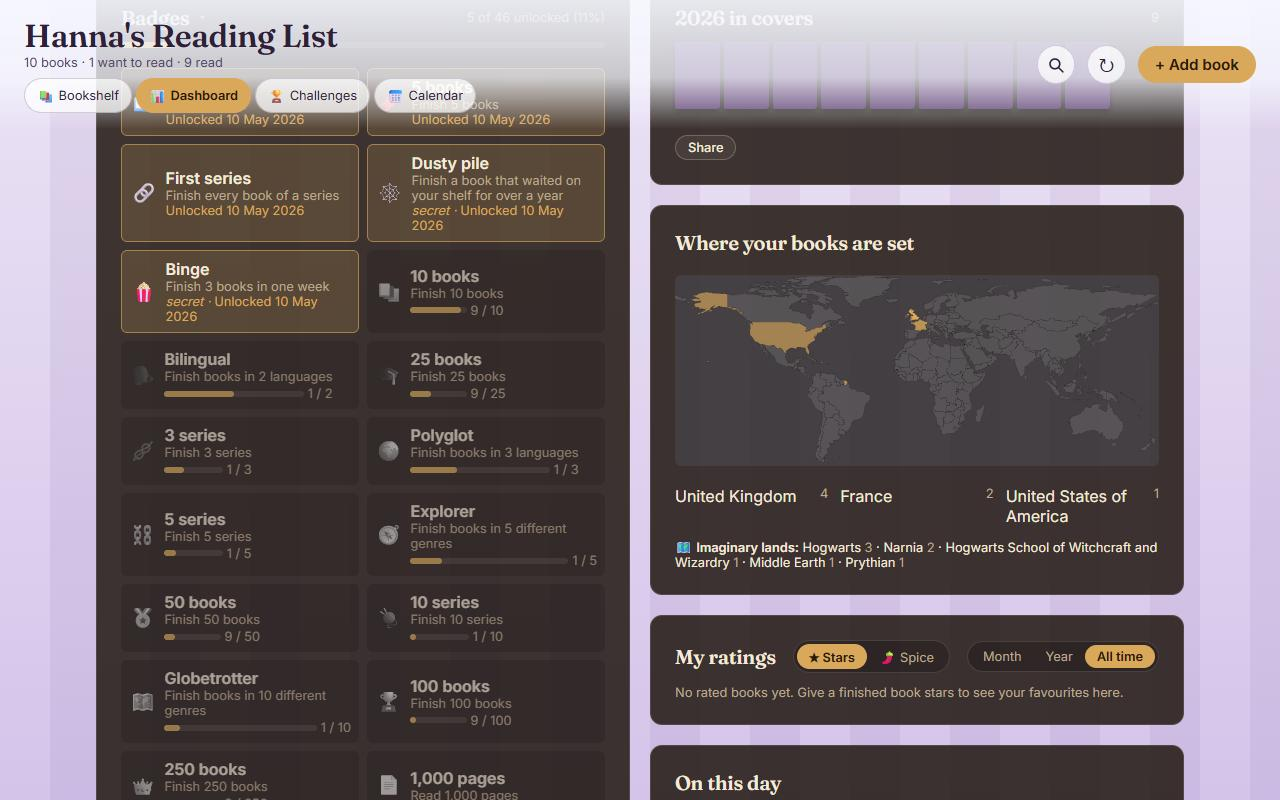
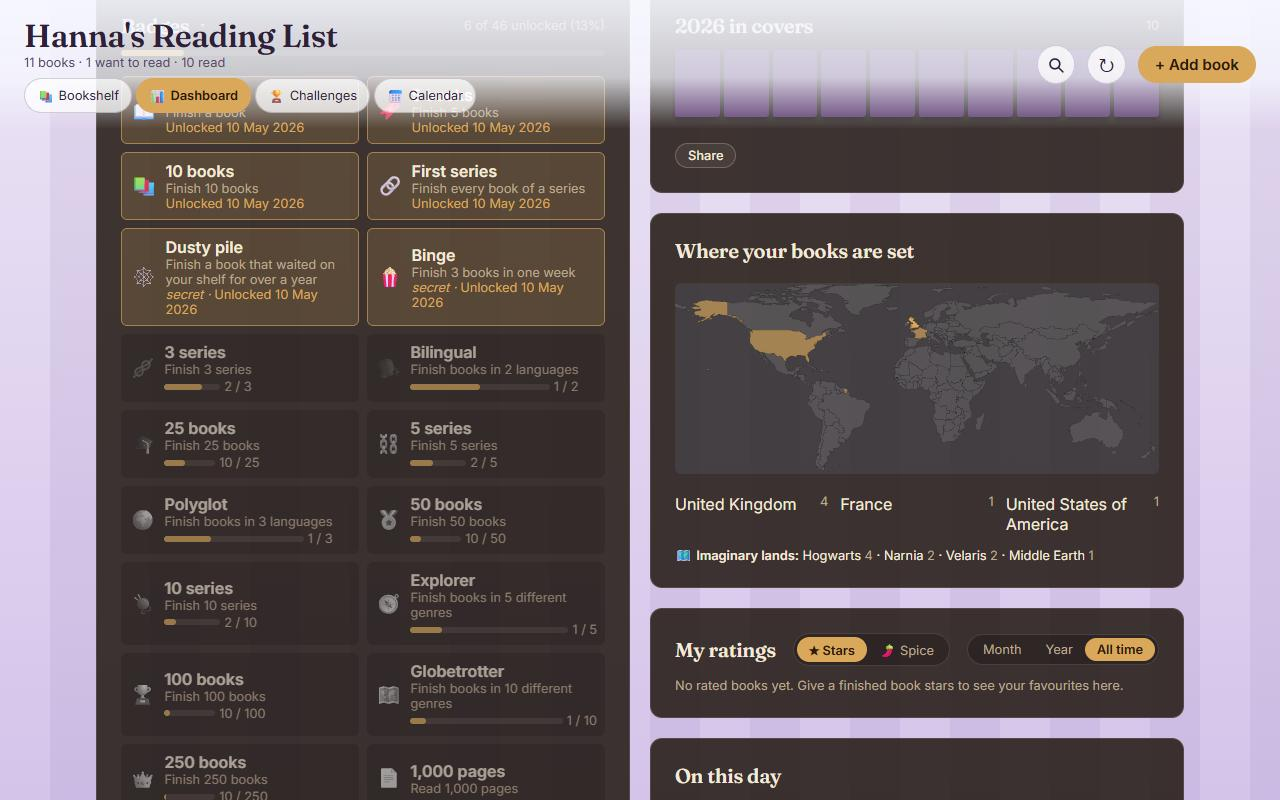
T-0015: spell typed countries properly, count one imaginary land once
UX review fixes: "usa" is stored as "USA" and "new york" as "New York";
"Hogwarts School of Witchcraft and Wizardry" counts as Hogwarts, Middle-earth
as Middle Earth, and the same land in other capitals counts once.

diff --git a/src/lib/places.ts b/src/lib/places.ts
@@ -118,36 +118,44 @@ const ALIASES: Record<string, string> = {
   transylvania: 'Romania',
 }
 
-/** Made-up places that Open Library doesn't always mark as imaginary. */
-const IMAGINARY = new Set([
-  'middle earth',
-  'middle-earth',
-  'narnia',
-  'westeros',
-  'essos',
-  'panem',
-  'prythian',
-  'hogwarts',
-  'oz',
-  'neverland',
-  'wonderland',
-  'discworld',
-  'earthsea',
-  'fillory',
-  'erilea',
-  'ravka',
-  'roshar',
-  'scadrial',
-  'atlantis',
-  'camelot',
+/**
+ * Made-up places that Open Library doesn't always mark as imaginary, with the
+ * short name the map counts them under (T-0015): "Hogwarts School of Witchcraft
+ * and Wizardry" is Hogwarts, "Middle-earth" is Middle Earth.
+ */
+const IMAGINARY = new Map([
+  ['middle earth', 'Middle Earth'],
+  ['middle-earth', 'Middle Earth'],
+  ['narnia', 'Narnia'],
+  ['westeros', 'Westeros'],
+  ['essos', 'Essos'],
+  ['panem', 'Panem'],
+  ['prythian', 'Prythian'],
+  ['hogwarts', 'Hogwarts'],
+  ['oz', 'Oz'],
+  ['neverland', 'Neverland'],
+  ['wonderland', 'Wonderland'],
+  ['discworld', 'Discworld'],
+  ['earthsea', 'Earthsea'],
+  ['fillory', 'Fillory'],
+  ['erilea', 'Erilea'],
+  ['ravka', 'Ravka'],
+  ['roshar', 'Roshar'],
+  ['scadrial', 'Scadrial'],
+  ['atlantis', 'Atlantis'],
+  ['camelot', 'Camelot'],
 ])
 
-/** A well-known made-up place, also inside a longer name ("Hogwarts School of Witchcraft and Wizardry"). */
-const imaginaryName = (name: string) => {
+/** A well-known made-up place, also inside a longer name ("Hogwarts School of Witchcraft and Wizardry"): its short name. */
+const imaginaryName = (name: string): string | undefined => {
   const words = name.toLowerCase()
   // the names are only letters, spaces and hyphens: no regex characters to escape
-  return [...IMAGINARY].some((w) => new RegExp(`(^|[^a-z])${w}([^a-z]|$)`).test(words))
+  for (const [w, display] of IMAGINARY) if (new RegExp(`(^|[^a-z])${w}([^a-z]|$)`).test(words)) return display
+  return undefined
 }
+
+/** The same made-up land in other capitals or spacing ("Velaris", "velaris"): one key. */
+export const landKey = (land: string) => land.toLowerCase().replace(/[\s-]+/g, ' ').trim()
 
 const clean = (s: string) => s.replace(/\s+/g, ' ').trim()
 
@@ -159,7 +167,8 @@ export interface BookPlaces {
 /** The countries and the made-up places in a book's places list. `known`: the country names on the map. */
 export function placesOf(places: string[], known: ReadonlySet<string>): BookPlaces {
   const countries = new Set<string>()
-  const imaginary = new Set<string>()
+  // key -> the spelling counted: a built-in land's short name, else the first spelling
+  const imaginary = new Map<string, string>()
   const knownLower = new Map([...known].map((c) => [c.toLowerCase(), c]))
   const country = (raw: string) => {
     const s = clean(raw).toLowerCase()
@@ -168,8 +177,10 @@ export function placesOf(places: string[], known: ReadonlySet<string>): BookPlac
   for (const place of places) {
     const name = clean(place.replace(/\(.*?\)/g, '').split('--')[0])
     // "Hogwarts School … (Imaginary place)", "Narnia (Imaginary place)"
-    if (/imaginary|fictitious|fictional|mythical|legendary/i.test(place) || imaginaryName(name)) {
-      if (name) imaginary.add(name)
+    const builtIn = imaginaryName(name)
+    if (/imaginary|fictitious|fictional|mythical|legendary/i.test(place) || builtIn) {
+      const land = builtIn ?? name
+      if (land && !imaginary.has(landKey(land))) imaginary.set(landKey(land), land)
       continue
     }
     // the place itself, then what's in brackets ("Paris (France)"), then each part ("England -- London")
@@ -182,7 +193,7 @@ export function placesOf(places: string[], known: ReadonlySet<string>): BookPlac
       }
     }
   }
-  return { countries: [...countries], imaginary: [...imaginary] }
+  return { countries: [...countries], imaginary: [...imaginary.values()] }
 }
 
 export interface WorldMap {
@@ -201,6 +212,8 @@ const finished = (b: Book) => b.status === 'read' || timesRead(b) > 0
 export function worldMap(books: Book[], known: ReadonlySet<string>): WorldMap {
   const countries = new Map<string, number>()
   const imaginary = new Map<string, number>()
+  // the same land in other capitals on another book counts under the first spelling
+  const spelling = new Map<string, string>()
   let waiting = 0
   let placed = 0
   for (const b of books) {
@@ -212,7 +225,11 @@ export function worldMap(books: Book[], known: ReadonlySet<string>): WorldMap {
     const p = placesOf(b.places, known)
     if (p.countries.length || p.imaginary.length) placed++
     for (const c of p.countries) countries.set(c, (countries.get(c) ?? 0) + 1)
-    for (const i of p.imaginary) imaginary.set(i, (imaginary.get(i) ?? 0) + 1)
+    for (const i of p.imaginary) {
+      const land = spelling.get(landKey(i)) ?? i
+      spelling.set(landKey(i), land)
+      imaginary.set(land, (imaginary.get(land) ?? 0) + 1)
+    }
   }
   return { countries, imaginary, waiting, placed }
 }

diff --git a/src/lib/setIn.test.ts b/src/lib/setIn.test.ts
@@ -64,6 +64,28 @@ describe('Set in: what she typed', () => {
     expect(placeFromTyped('Paris', [])).toEqual({ place: 'Paris', kind: 'country' })
   })
 
+  it('spells a name the map knows as a country properly: every word capitalised, abbreviations in capitals', () => {
+    expect(placeFromTyped('usa', [])).toEqual({ place: 'USA', kind: 'country' })
+    expect(placeFromTyped('uk', [])).toEqual({ place: 'UK', kind: 'country' })
+    expect(placeFromTyped('new york', [])).toEqual({ place: 'New York', kind: 'country' })
+    expect(placeFromTyped('england', [])).toEqual({ place: 'England', kind: 'country' })
+    expect(placeFromTyped('USA', [])).toEqual({ place: 'USA', kind: 'country' })
+    expect(placeFromTyped('u.s.', [])!.place).toBe('U.S.')
+    expect(placeFromTyped('saint petersburg', [])!.place).toBe('Saint Petersburg')
+    expect(placeFromTyped('st. petersburg', [])!.place).toBe('St. Petersburg')
+    // all of them still light up the right country on the map
+    expect(placesOf(['USA', 'U.S.', 'New York'], MAP_COUNTRY_SET).countries).toEqual(['United States of America'])
+  })
+
+  it('keeps a made-up place’s spelling rule: only a capital first letter', () => {
+    expect(placeFromTyped('the night court', [])!.place).toBe('The night court (Imaginary place)')
+    expect(placeFromTyped('abc', [])!.place).toBe('Abc (Imaginary place)')
+  })
+
+  it('shows that spelling in the add row', () => {
+    expect(placeSuggestions('usa', [], []).at(-1)).toEqual({ place: 'USA', label: 'USA', kind: 'country', add: true })
+  })
+
   it('stores a made-up place so the map counts it as imaginary, also one it has never heard of', () => {
     const prythian = placeFromTyped('prythian', [])!
     expect(prythian).toEqual({ place: 'Prythian (Imaginary place)', kind: 'imaginary' })
@@ -119,7 +141,7 @@ describe('Set in: suggestions while typing', () => {
   it('finds the lands on other books once, by name', () => {
     expect(landsOn([['Narnia (Imaginary place)', 'England'], ['narnia'], undefined, ['Hogwarts School of Witchcraft and Wizardry']])).toEqual([
       'Narnia',
-      'Hogwarts School of Witchcraft and Wizardry',
+      'Hogwarts',
     ])
   })
 })
@@ -144,6 +166,36 @@ describe('the map: imaginary lands with counts', () => {
       ['Atlantis', 1],
       ['Middle Earth', 1],
     ])
+  })
+
+  it('counts the long Hogwarts name as Hogwarts', () => {
+    const books = [
+      book('a', { places: ['Hogwarts (Imaginary place)'] }),
+      book('b', { places: ['Hogwarts (Imaginary place)'] }),
+      book('c', { places: ['Hogwarts (Imaginary place)'] }),
+      book('d', { places: ['Hogwarts School of Witchcraft and Wizardry (Imaginary place)'] }),
+    ]
+    expect(byCount(worldMap(books, MAP_COUNTRY_SET).imaginary)).toEqual([['Hogwarts', 4]])
+  })
+
+  it('counts a book with both Hogwarts names once', () => {
+    const both = book('a', { places: ['Hogwarts (Imaginary place)', 'Hogwarts School of Witchcraft and Wizardry (Imaginary place)'] })
+    expect(byCount(worldMap([both], MAP_COUNTRY_SET).imaginary)).toEqual([['Hogwarts', 1]])
+  })
+
+  it('counts Middle-earth and Middle Earth as one land', () => {
+    const books = [book('a', { places: ['Middle-earth (Imaginary place)'] }), book('b', { places: ['Middle Earth'] })]
+    expect(byCount(worldMap(books, MAP_COUNTRY_SET).imaginary)).toEqual([['Middle Earth', 2]])
+  })
+
+  it('counts the same other land in other capitals as one, under the first spelling', () => {
+    const books = [book('a', { places: ['Velaris (Imaginary place)'] }), book('b', { places: ['velaris (Imaginary place)'] })]
+    expect(byCount(worldMap(books, MAP_COUNTRY_SET).imaginary)).toEqual([['Velaris', 2]])
+    expect(placesOf(['Velaris (Imaginary place)', 'velaris (imaginary place)'], MAP_COUNTRY_SET).imaginary).toEqual(['Velaris'])
+  })
+
+  it('keeps the stored name on the chip', () => {
+    expect(placeLabel('Hogwarts School of Witchcraft and Wizardry (Imaginary place)')).toBe('Hogwarts School of Witchcraft and Wizardry')
   })
 
   it('counts a made-up place she added on a finished book', () => {

diff --git a/src/lib/setIn.ts b/src/lib/setIn.ts
@@ -1,5 +1,5 @@
 import { MAP_COUNTRIES, MAP_COUNTRY_SET } from './mapCountries'
-import { placesOf } from './places'
+import { landKey, placesOf } from './places'
 
 /**
  * "Set in" in the book panel (T-0015): the places of one book as chips, and
@@ -46,14 +46,27 @@ export function landsOn(placeLists: Array<readonly string[] | undefined>): strin
   const lands = new Map<string, string>()
   for (const list of placeLists)
     for (const land of placesOf([...(list ?? [])], MAP_COUNTRY_SET).imaginary)
-      if (!lands.has(land.toLowerCase())) lands.set(land.toLowerCase(), land)
+      if (!lands.has(landKey(land))) lands.set(landKey(land), land)
   return [...lands.values()]
 }
 
 /**
+ * A name the map knows as a country, spelled properly (T-0015 review): kept
+ * as typed when she typed capitals inside it ("USA", "McLean"); in capitals
+ * when it is an abbreviation, one word of at most 3 letters or letters with
+ * dots ("usa" → USA, "u.s." → U.S.); otherwise a capital at the start of every
+ * word ("new york" → New York).
+ */
+export function countrySpelling(name: string): string {
+  if (/\p{Lu}/u.test(name.slice(1))) return name
+  if (/^\p{L}{1,3}$/u.test(name) || /^(\p{L}\.)+$/u.test(name)) return name.toUpperCase()
+  return name.replace(/(^|\s)(\p{Ll})/gu, (_, space: string, letter: string) => space + letter.toUpperCase())
+}
+
+/**
  * What she typed, as it would be stored: a map country by the map's name
- * ("france" → France); a name the map knows as a country ("England", "Paris")
- * as typed, with a capital; anything else as a made-up place, spelled like the
+ * ("france" → France); a name the map knows as a country ("England", "usa")
+ * in her words, spelled properly (`countrySpelling`: "USA"); anything else as a made-up place, spelled like the
  * same land on another book ("narnia" → Narnia), or with a capital.
  */
 export function placeFromTyped(typed: string, lands: readonly string[]): { place: string; kind: 'country' | 'imaginary' } | null {
@@ -61,9 +74,9 @@ export function placeFromTyped(typed: string, lands: readonly string[]): { place
   if (!name) return null
   const country = MAP_COUNTRIES.find((c) => same(c, name))
   if (country) return { place: country, kind: 'country' }
+  if (placeKind(name) === 'country') return { place: countrySpelling(name), kind: 'country' }
   const capital = name.charAt(0).toUpperCase() + name.slice(1)
-  if (placeKind(capital) === 'country') return { place: capital, kind: 'country' }
-  const land = lands.find((l) => same(l, name)) ?? capital
+  const land = lands.find((l) => landKey(l) === landKey(name)) ?? capital
   return { place: land + SUFFIX, kind: 'imaginary' }
 }
 

diff --git a/src/lib/places.test.ts b/src/lib/places.test.ts
@@ -16,14 +16,14 @@ describe('where the books are set', () => {
 
   it('puts made-up places in the imaginary lands', () => {
     const p = placesOf(['Hogwarts School of Witchcraft and Wizardry (Imaginary place)', 'Narnia', 'Middle Earth (Imaginary place)', 'England'], KNOWN)
-    expect(p.imaginary).toEqual(['Hogwarts School of Witchcraft and Wizardry', 'Narnia', 'Middle Earth'])
+    expect(p.imaginary).toEqual(['Hogwarts', 'Narnia', 'Middle Earth'])
     expect(p.countries).toEqual(['United Kingdom'])
   })
 
   it('reads Open Library’s real places for Harry Potter', () => {
     const p = placesOf(['England', 'Hogwarts School of Witchcraft and Wizardry', '4 Privet Drive', 'Diagon Alley'], KNOWN)
     expect(p.countries).toEqual(['United Kingdom'])
-    expect(p.imaginary).toEqual(['Hogwarts School of Witchcraft and Wizardry'])
+    expect(p.imaginary).toEqual(['Hogwarts'])
     // a real place name with a short made-up word inside it is not imaginary
     expect(placesOf(['Ozark Mountains'], KNOWN).imaginary).toEqual([])
   })

diff --git a/docs/tasks/T-0015-places-on-the-map.md b/docs/tasks/T-0015-places-on-the-map.md
@@ -279,3 +279,22 @@ matches the design.
   items under *Review after building*: typed country names spelled properly ("usa" → "USA",
   "new york" → "New York"), and the same imaginary land counted once ("Hogwarts School of
   Witchcraft and Wizardry" counts as Hogwarts). The "Add "Fra" as a made-up place" row stays.
+- 2026-11-21 developer: fixed both must-fix items. (1) `countrySpelling` in `setIn.ts`, used by
+  `placeFromTyped` for a name the map knows as a country but not by its own name: kept as typed when
+  it has capitals inside ("USA", "McLean"), all capitals for one word of at most 3 letters or letters
+  with dots ("usa" → USA, "uk" → UK, "u.s." → U.S.), otherwise a capital at the start of every word
+  ("new york" → New York, "st. petersburg" → St. Petersburg); made-up places unchanged; the add row
+  shows the same spelling. (2) `places.ts`: the built-in list now has a display name per land
+  (`middle earth`/`middle-earth` → Middle Earth, Hogwarts, Narnia, Oz, …); `placesOf` counts a name
+  containing one under that short name and merges other lands by `landKey` (capitals, spaces and
+  hyphens; first spelling wins), once per book; `worldMap` and `landsOn` merge across books the same
+  way; chips still show the stored name. Tests added: usa/uk/new york/england/USA (+ u.s., saint/st.
+  petersburg), made-up spelling unchanged, add row 🌍 Add "USA"; 3× Hogwarts + 1× long name →
+  Hogwarts 4; one book with both → 1; Middle-earth + Middle Earth → one land; Velaris + velaris → one
+  land; long name stays on the chip. Checks: `pnpm test` → 73 files passed, 1 skipped; 506 passed,
+  9 skipped; `pnpm run build` → built; `pnpm exec harness check` → all ✓. Clicked through on `vite
+  dev` with no backend, shelf seeded in localStorage: "usa" on Babel → only row 🌍 Add "USA", Enter
+  stored `["USA"]`; map "Imaginary lands: Hogwarts 4 · Narnia 2 · Velaris 2 · Middle Earth 1" (from
+  Hogwarts + the long name, Middle-earth, Velaris + velaris); no sideways scroll, no page errors. New
+  screenshots `phone-map.jpg`/`desktop-map.jpg` and `phone-usa-row.jpg`/`desktop-usa-row.jpg`
+  (390×844, 1280×800). Hand back to the UX designer for review.

diff --git a/docs/lessons.md b/docs/lessons.md
@@ -12,3 +12,4 @@ into a proposed rule change for the harness.
 - 2026-11-21 T-0009 developer: the new hook tests waited a fixed 60 ms for queued server calls, so `npm test` failed in 6 of 7 runs on a busy machine while CI happened to pass. Tests of async queues should wait for a condition (`vi.waitFor`) and drain or unmount each device before the next test, never sleep a fixed time.
 - 2026-11-21 T-0009 developer: hook tests that waited a fixed 60 ms against a stand-in server with delays failed on a busy machine. Wait for a condition (the stand-in server quiet, or the expected state), and unmount and drain every device before the next test.
 - 2026-11-21 T-0003 developer: three fixes in a row (#206, #207, phone-smooth-shelf) were guesses at why the shelf failed on Hanna's phone; the real cause (Chrome had blocked WebGL after earlier crashes) only showed once the error note printed its reason. When a failure only happens on a user's device, make the app show the reason first, then fix.
+- 2026-11-21 T-0015 developer: the UX review sent back two cases the first build missed: typed country names spelled with only a first capital ("usa" → "Usa"), and one imaginary land counted twice under two names ("Hogwarts" and Open Library's long Hogwarts name). When a feature stores what a user types or groups names from two sources, test the short and long forms of the same thing and abbreviations, not only the happy spelling.
